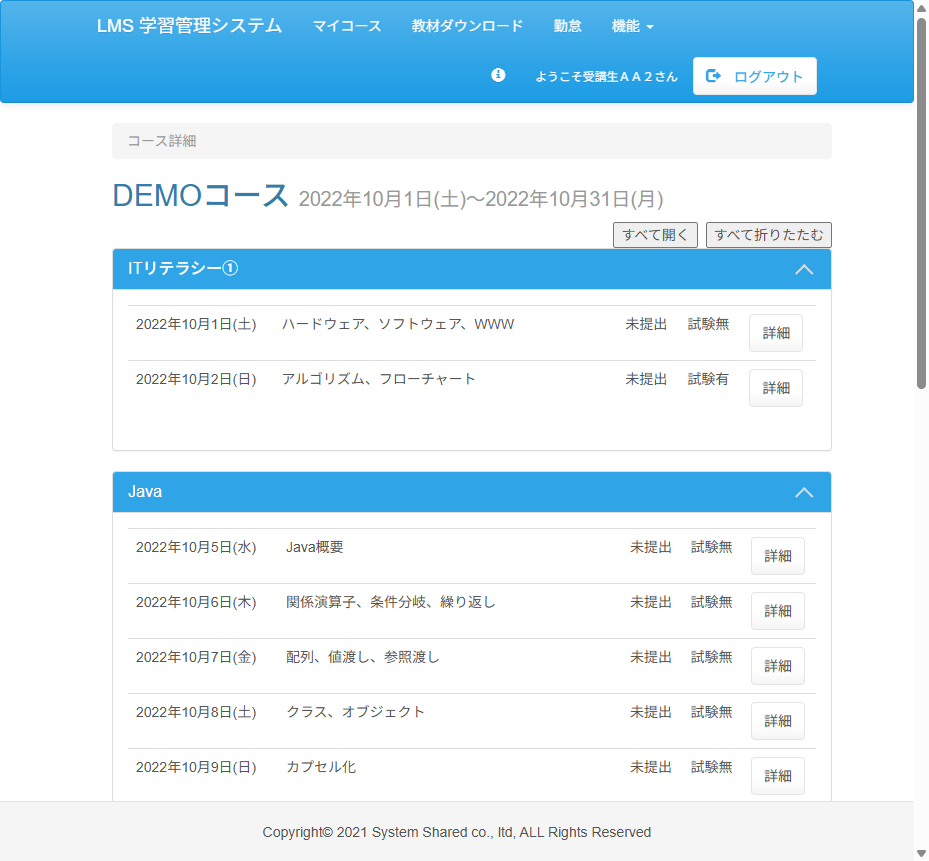
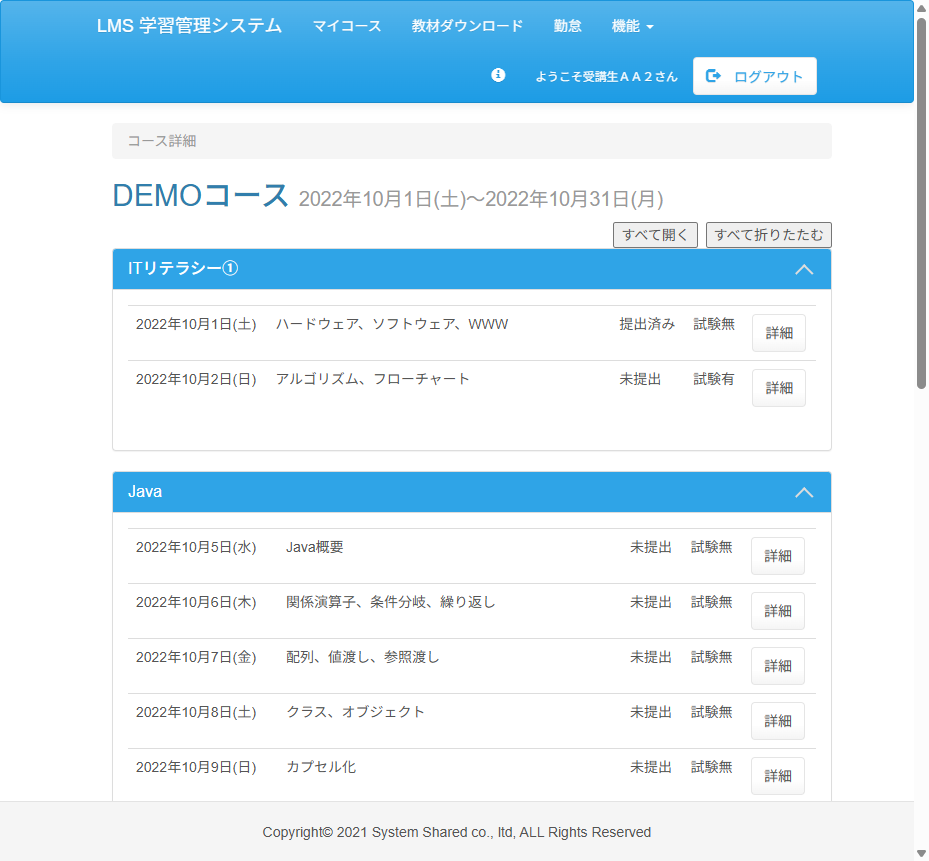
fix:Case05、Case06　レビュー指摘事項修正 Case05:test05()、test06() Case06:test05()、test06()

diff --git a/test_code_creation_name/src/test/java/jp/co/sss/lms/ct/f02_faq/Case06.java b/test_code_creation_name/src/test/java/jp/co/sss/lms/ct/f02_faq/Case06.java
@@ -98,7 +98,8 @@ public class Case06 {
 		
 		pageLoadTimeout(10);
 		
-		assertNotNull(webDriver.findElement(By.className("mr10")));
+		assertEquals("キャンセル料・途中退校について",webDriver.findElement(By.xpath("//span[text()='キャンセル料・途中退校について']")).getText());
+		assertEquals("研修の申し込みはどのようにすれば良いですか？",webDriver.findElement(By.xpath("//span[text()='研修の申し込みはどのようにすれば良いですか？']")).getText());
 		getEvidence(new Object() {
 		});
 	}
@@ -109,7 +110,7 @@ public class Case06 {
 	void test06() {
 		webDriver.findElement(By.className("mr10")).click();
 		
-		assertNotNull(webDriver.findElement(By.className("dn")));
+		assertEquals("A.",webDriver.findElement(By.className("text-warning")).getText());
 		getEvidence(new Object() {
 		});
 	}

diff --git a/test_code_creation_name/src/test/java/jp/co/sss/lms/ct/f02_faq/Case05.java b/test_code_creation_name/src/test/java/jp/co/sss/lms/ct/f02_faq/Case05.java
@@ -99,7 +99,7 @@ public class Case05 {
 
 		pageLoadTimeout(10);
 
-		assertNotNull(webDriver.findElement(By.className("mr10")));
+		assertEquals("キャンセル料・途中退校について",webDriver.findElement(By.xpath("//span[text()='キャンセル料・途中退校について']")).getText());
 		getEvidence(new Object() {
 		});
 	}
@@ -112,7 +112,7 @@ public class Case05 {
 
 		pageLoadTimeout(10);
 
-		assertEquals("", webDriver.findElement(By.name("keyword")).getText());
+		assertEquals("", webDriver.findElement(By.name("keyword")).getAttribute("value"));
 		getEvidence(new Object() {
 		});
 	}
